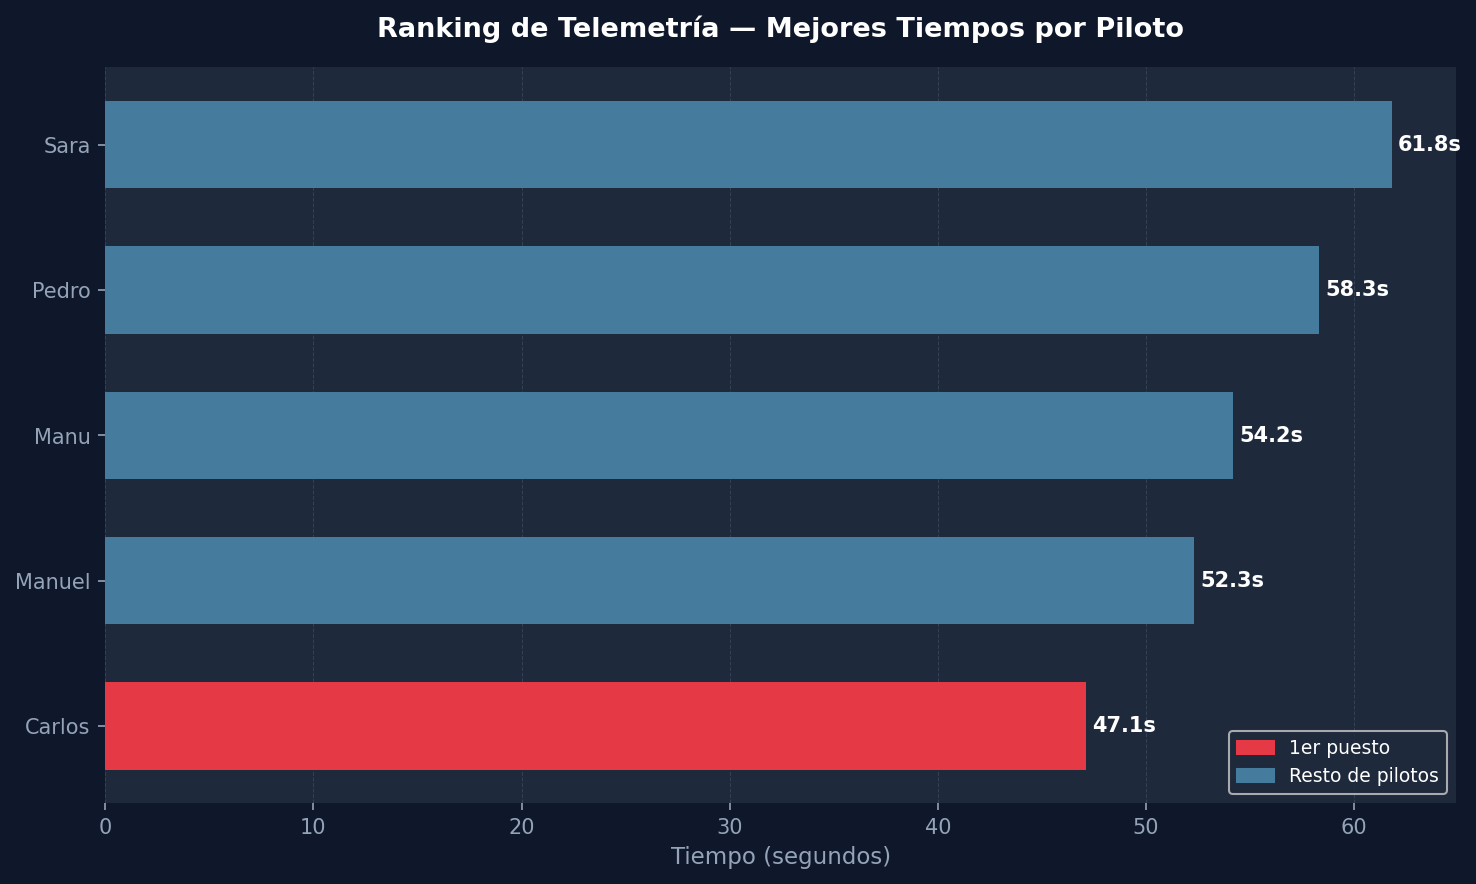
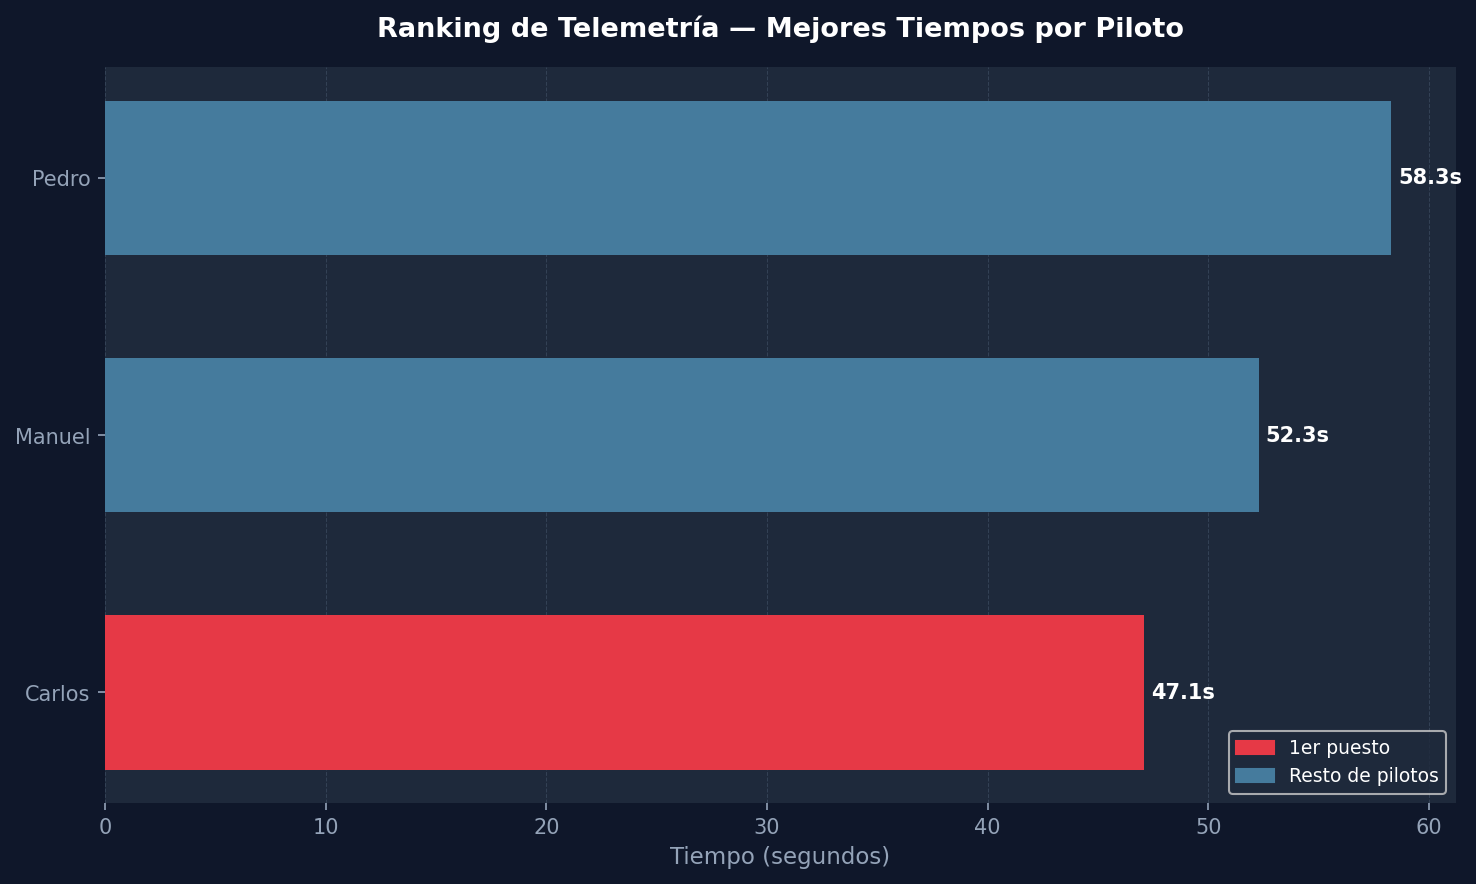
Añadir Python y librerías de telemetría al Dockerfile, arreglos de errores de ultima hora

diff --git a/resources/views/admin/kartings/create.blade.php b/resources/views/admin/kartings/create.blade.php
@@ -40,11 +40,11 @@
                     <div class="grid grid-cols-2 gap-4">
                         <div>
                             <label class="block uppercase text-xs font-bold text-gray-500 mb-2">Latitud GPS</label>
-                            <input type="text" name="latitude" placeholder="Ej: 41.0487" class="w-full bg-black border border-zinc-700 rounded p-3 text-white focus:ring-kartred focus:border-kartred outline-none transition" required>
+                            <input type="number" name="latitude" step="0.000001" min="-90" max="90" placeholder="Ej: 41.0487" class="w-full bg-black border border-zinc-700 rounded p-3 text-white focus:ring-kartred focus:border-kartred outline-none transition" required>
                         </div>
                         <div>
                             <label class="block uppercase text-xs font-bold text-gray-500 mb-2">Longitud GPS</label>
-                            <input type="text" name="longitude" placeholder="Ej: -0.1345" class="w-full bg-black border border-zinc-700 rounded p-3 text-white focus:ring-kartred focus:border-kartred outline-none transition" required>
+                            <input type="number" name="longitude" step="0.000001" min="-180" max="180" placeholder="Ej: -0.1345" class="w-full bg-black border border-zinc-700 rounded p-3 text-white focus:ring-kartred focus:border-kartred outline-none transition" required>
                         </div>
                     </div>
                     <button type="submit" class="w-full bg-kartred hover:bg-red-700 text-white font-black py-4 rounded uppercase transition tracking-wider shadow-lg shadow-kartred/20 mt-4">

diff --git a/resources/views/admin/kartings/edit.blade.php b/resources/views/admin/kartings/edit.blade.php
@@ -43,11 +43,11 @@
             <div class="grid grid-cols-2 gap-6 mb-8">
                 <div>
                     <label class="block text-kartred font-bold uppercase text-sm mb-2">Latitud</label>
-                    <input type="text" name="latitude" value="{{ $karting->latitude }}" required class="w-full bg-black border border-zinc-700 rounded p-3 text-white font-mono focus:border-kartred outline-none">
+                    <input type="number" name="latitude" value="{{ $karting->latitude }}" step="0.000001" min="-90" max="90" required class="w-full bg-black border border-zinc-700 rounded p-3 text-white font-mono focus:border-kartred outline-none">
                 </div>
                 <div>
                     <label class="block text-kartred font-bold uppercase text-sm mb-2">Longitud</label>
-                    <input type="text" name="longitude" value="{{ $karting->longitude }}" required class="w-full bg-black border border-zinc-700 rounded p-3 text-white font-mono focus:border-kartred outline-none">
+                    <input type="number" name="longitude" value="{{ $karting->longitude }}" step="0.000001" min="-180" max="180" required class="w-full bg-black border border-zinc-700 rounded p-3 text-white font-mono focus:border-kartred outline-none">
                 </div>
             </div>
             <div class="flex gap-4">

diff --git a/app/Http/Controllers/Admin/KartingController.php b/app/Http/Controllers/Admin/KartingController.php
@@ -26,8 +26,8 @@ class KartingController extends Controller
     {
         $request->validate([
             'name' => 'required|string|max:255',
-            'latitude' => 'required|numeric',
-            'longitude' => 'required|numeric',
+            'latitude' => 'required|numeric|between:-90,90',
+            'longitude' => 'required|numeric|between:-180,180',
         ]);
 
         Karting::create($request->all());
@@ -47,8 +47,8 @@ class KartingController extends Controller
     {
         $request->validate([
             'name' => 'required|string|max:255',
-            'latitude' => 'required|numeric',
-            'longitude' => 'required|numeric',
+            'latitude' => 'required|numeric|between:-90,90',
+            'longitude' => 'required|numeric|between:-180,180',
         ]);
 
         $karting->update($request->all());

diff --git a/database/migrations/2026_06_11_235824_add_record_date_to_lap_times_table.php b/database/migrations/2026_06_11_235824_add_record_date_to_lap_times_table.php
@@ -1,0 +1,22 @@
+<?php
+
+use Illuminate\Database\Migrations\Migration;
+use Illuminate\Database\Schema\Blueprint;
+use Illuminate\Support\Facades\Schema;
+
+return new class extends Migration
+{
+    public function up(): void
+    {
+        Schema::table('lap_times', function (Blueprint $table) {
+            $table->date('record_date')->nullable()->after('lap_time');
+        });
+    }
+
+    public function down(): void
+    {
+        Schema::table('lap_times', function (Blueprint $table) {
+            $table->dropColumn('record_date');
+        });
+    }
+};

diff --git a/app/Http/Controllers/Auth/PasswordResetLinkController.php b/app/Http/Controllers/Auth/PasswordResetLinkController.php
@@ -30,9 +30,6 @@ class PasswordResetLinkController extends Controller
             'email' => ['required', 'email'],
         ]);
 
-        // We will send the password reset link to this user. Once we have attempted
-        // to send the link, we will examine the response then see the message we
-        // need to show to the user. Finally, we'll send out a proper response.
         $status = Password::sendResetLink(
             $request->only('email')
         );

diff --git a/app/Http/Controllers/Auth/AuthenticatedSessionController.php b/app/Http/Controllers/Auth/AuthenticatedSessionController.php
@@ -36,9 +36,9 @@ class AuthenticatedSessionController extends Controller
      */
     public function destroy(Request $request): RedirectResponse
     {
-        Auth::guard('web')->logout();
+        Auth::guard('web')->logout();  
 
-        $request->session()->invalidate();
+        $request->session()->invalidate();  
 
         $request->session()->regenerateToken();
 
